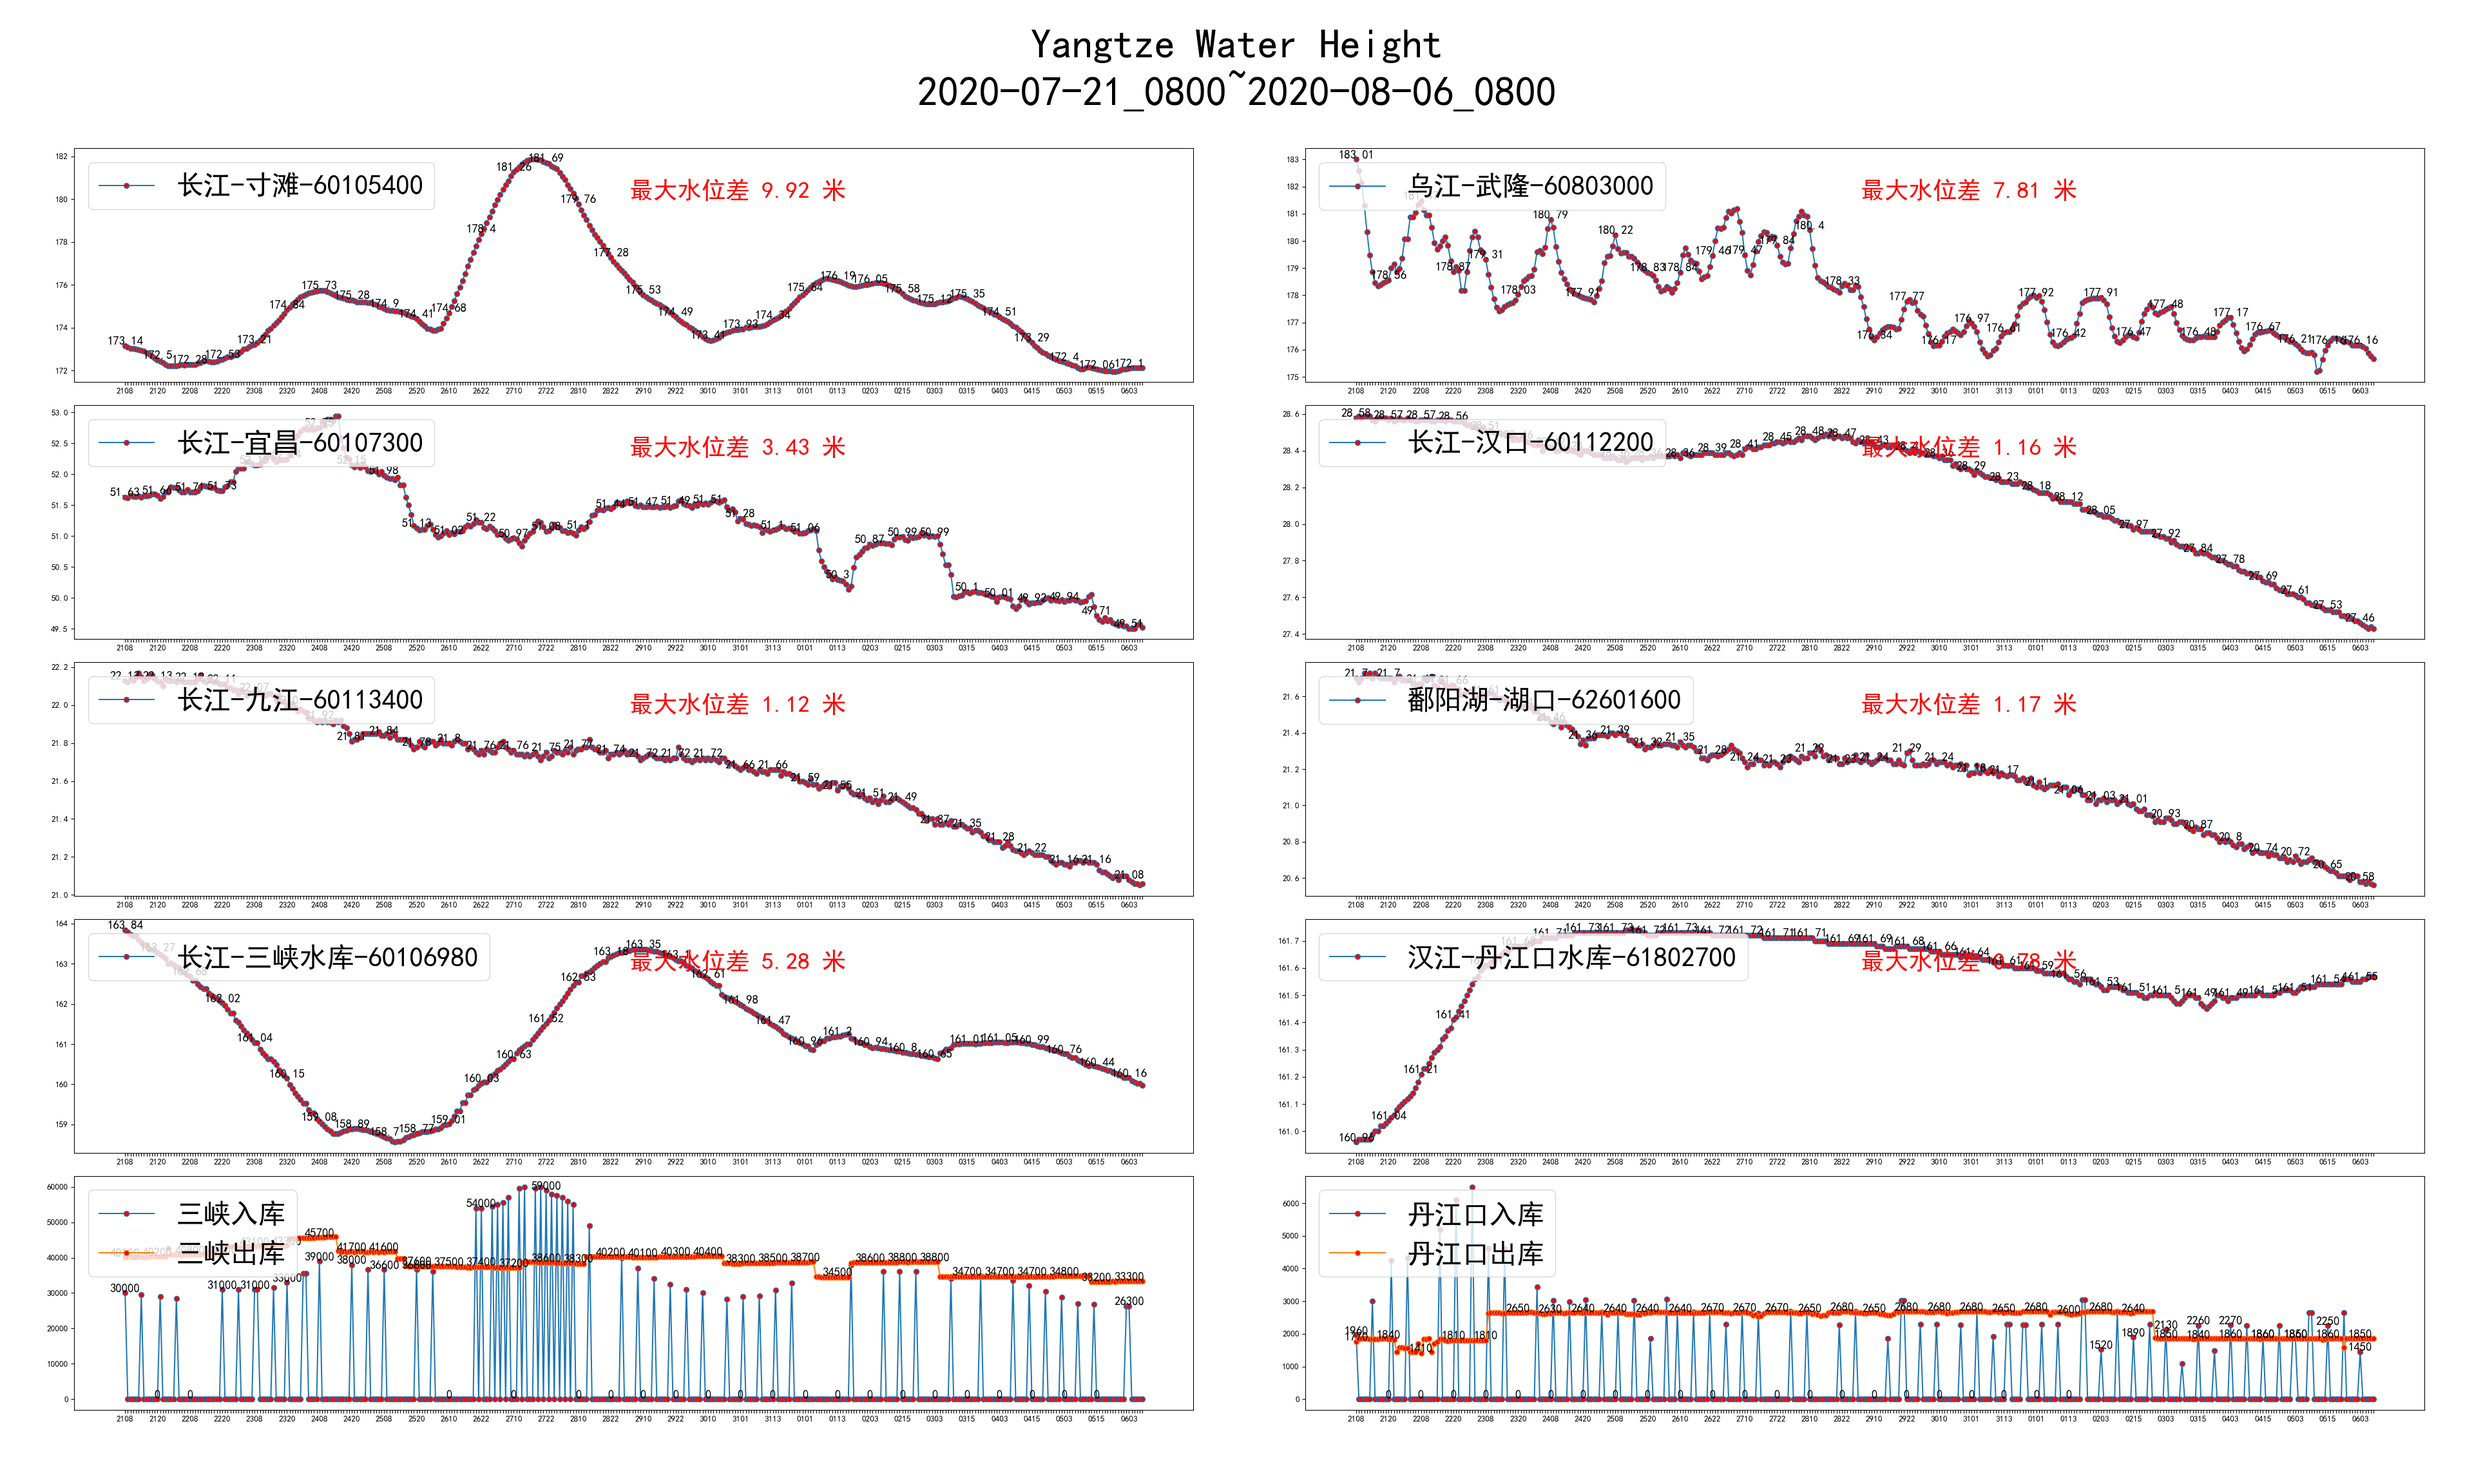
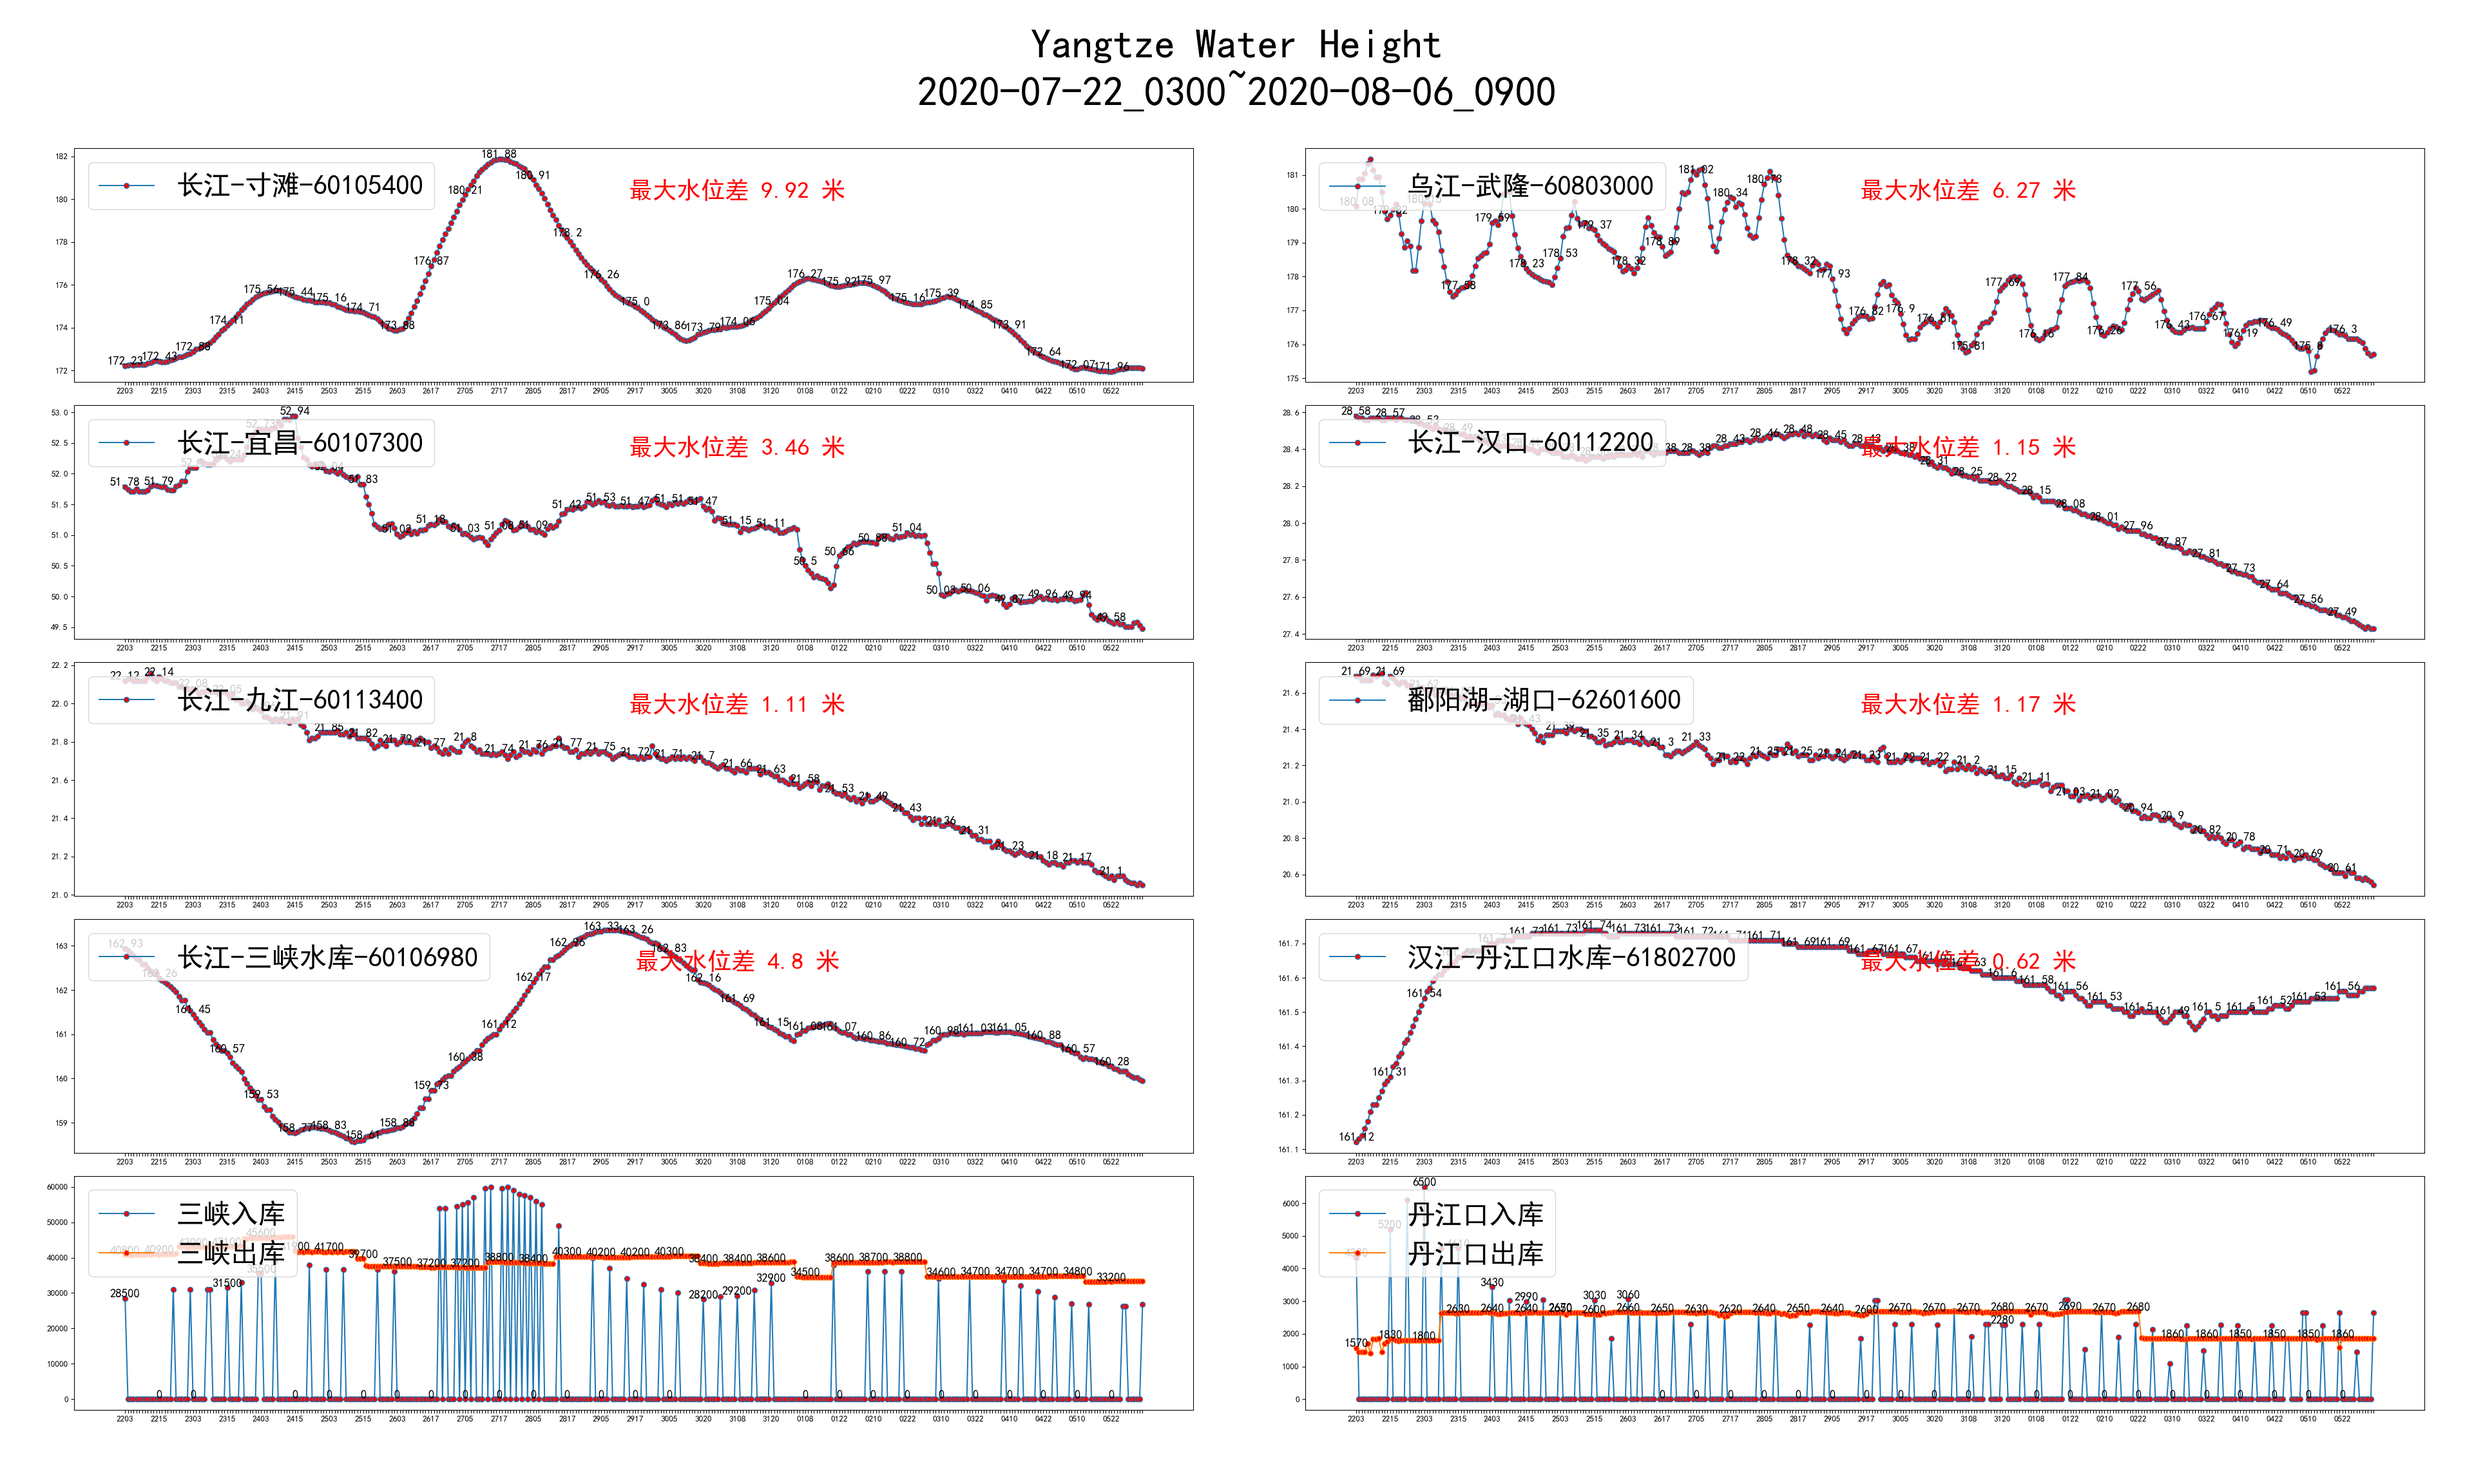
more datas, auto commit

diff --git a/water.py b/water.py
@@ -57,9 +57,9 @@ def sparse_xtick(step):
         i += 1
 
 
-def plot(last=72, st=None):
+def plot(last=360, st=None):
     '''
-    last:过去last小时的水位，默认72。0，绘制全部数据\n
+    last:过去last小时的水位，默认360， 15天。0，绘制全部数据\n
     st:  绘图的水文站列表。默认None，全部绘制
     '''
     datas = dict()
@@ -167,7 +167,7 @@ if __name__ == "__main__":
         st = ['60105400', '60107300', '60112200', '60113400',
               '62601600', '60106980', '60803000', '61802700']
         #        鄱阳湖     三峡水库      乌江	    丹江口水库
-        plot(0, st)
+        plot(360, st)
 
     if cmd != Command.silent:
         from PIL import Image
